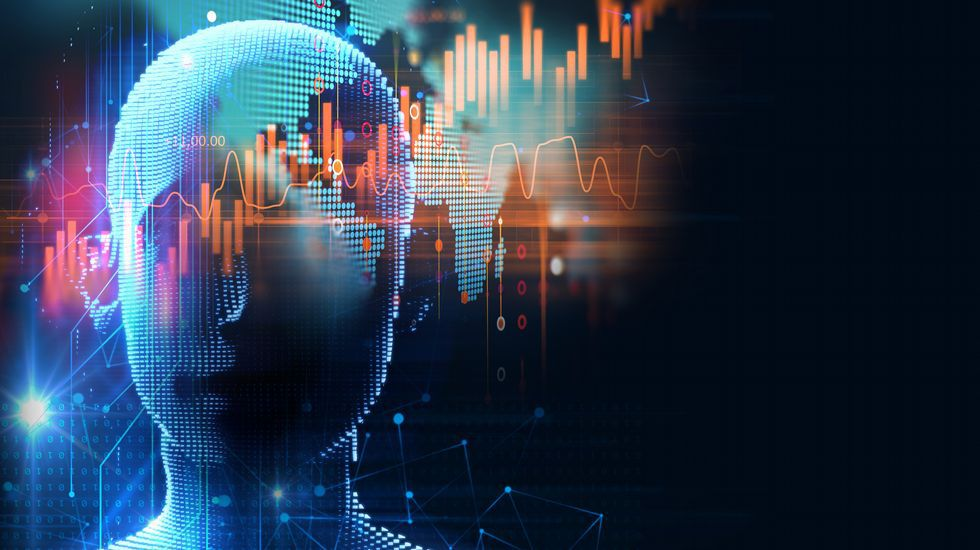
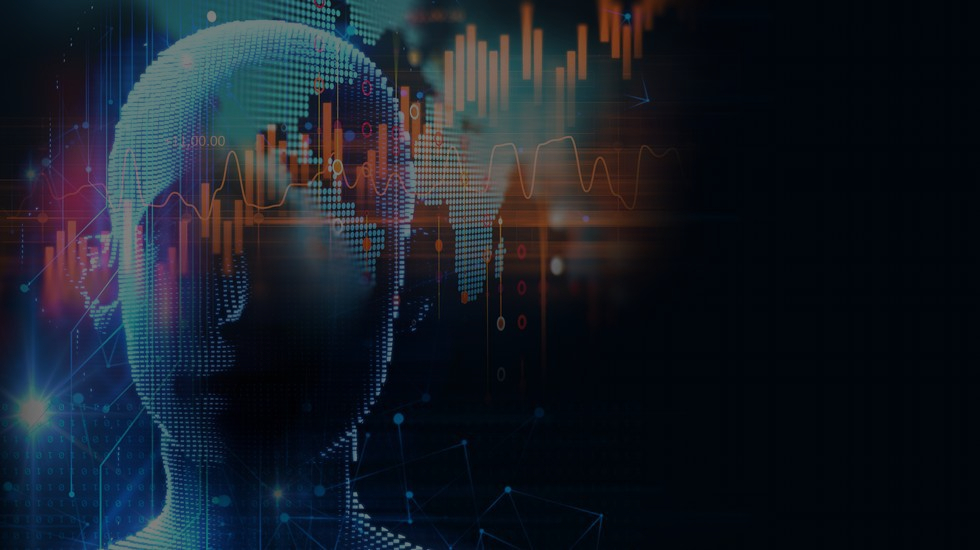
Cambios en imagenes de background

diff --git a/LearnIA/templates/index.html b/LearnIA/templates/index.html
@@ -26,8 +26,8 @@
 				<div class="home-thumb">
 					<h1 class="wow fadeInUp" style="font-weight: bold;" data-wow-delay="0.8s">Proyecto Machine Learning</h1>
           			<h3 class="wow fadeInUp" data-wow-delay="0.6s" style="font-weight: bold;"><strong>Seleccione una de las opciones demostracion de </strong>Machine Learning</h3>
-          			<a href="/text_analysis_sentiment/" type="button" class="btn btn-warning">Texto</a>
-        			<a href="/image/" type="button" class="btn btn-warning">Imagenes</a>
+          			<a href="/text/" type="button" class="btn btn-warning">Texto</a>
+        			<a href="/image/" type="button" class="btn btn-warning">Imágenes</a>
 				</div>
 			</div>
 

diff --git a/LearnIA/LearnIA/static/js/custom.js b/LearnIA/LearnIA/static/js/custom.js
@@ -15,8 +15,11 @@ $(document).ready(function() {
         slides: [
             { src: '/static/images/fondo_1.jpg' },
             { src: '/static/images/fondo_2.jpg' },
-            { src: '/static/images/fondo_texto_1.jpg' },
-            { src: '/static/images/fondo_texto_2.jpg' }
+            { src: '/static/images/fondo_3.png' },
+            { src: '/static/images/fondo_4.jpeg' },
+            { src: '/static/images/fondo_5.jpeg' },
+            { src: '/static/images/fondo_7.jpg' },
+            { src: '/static/images/fondo_8.jpg' }
         ],
         timer: false,
         transition: [ 'zoomOut', ]
